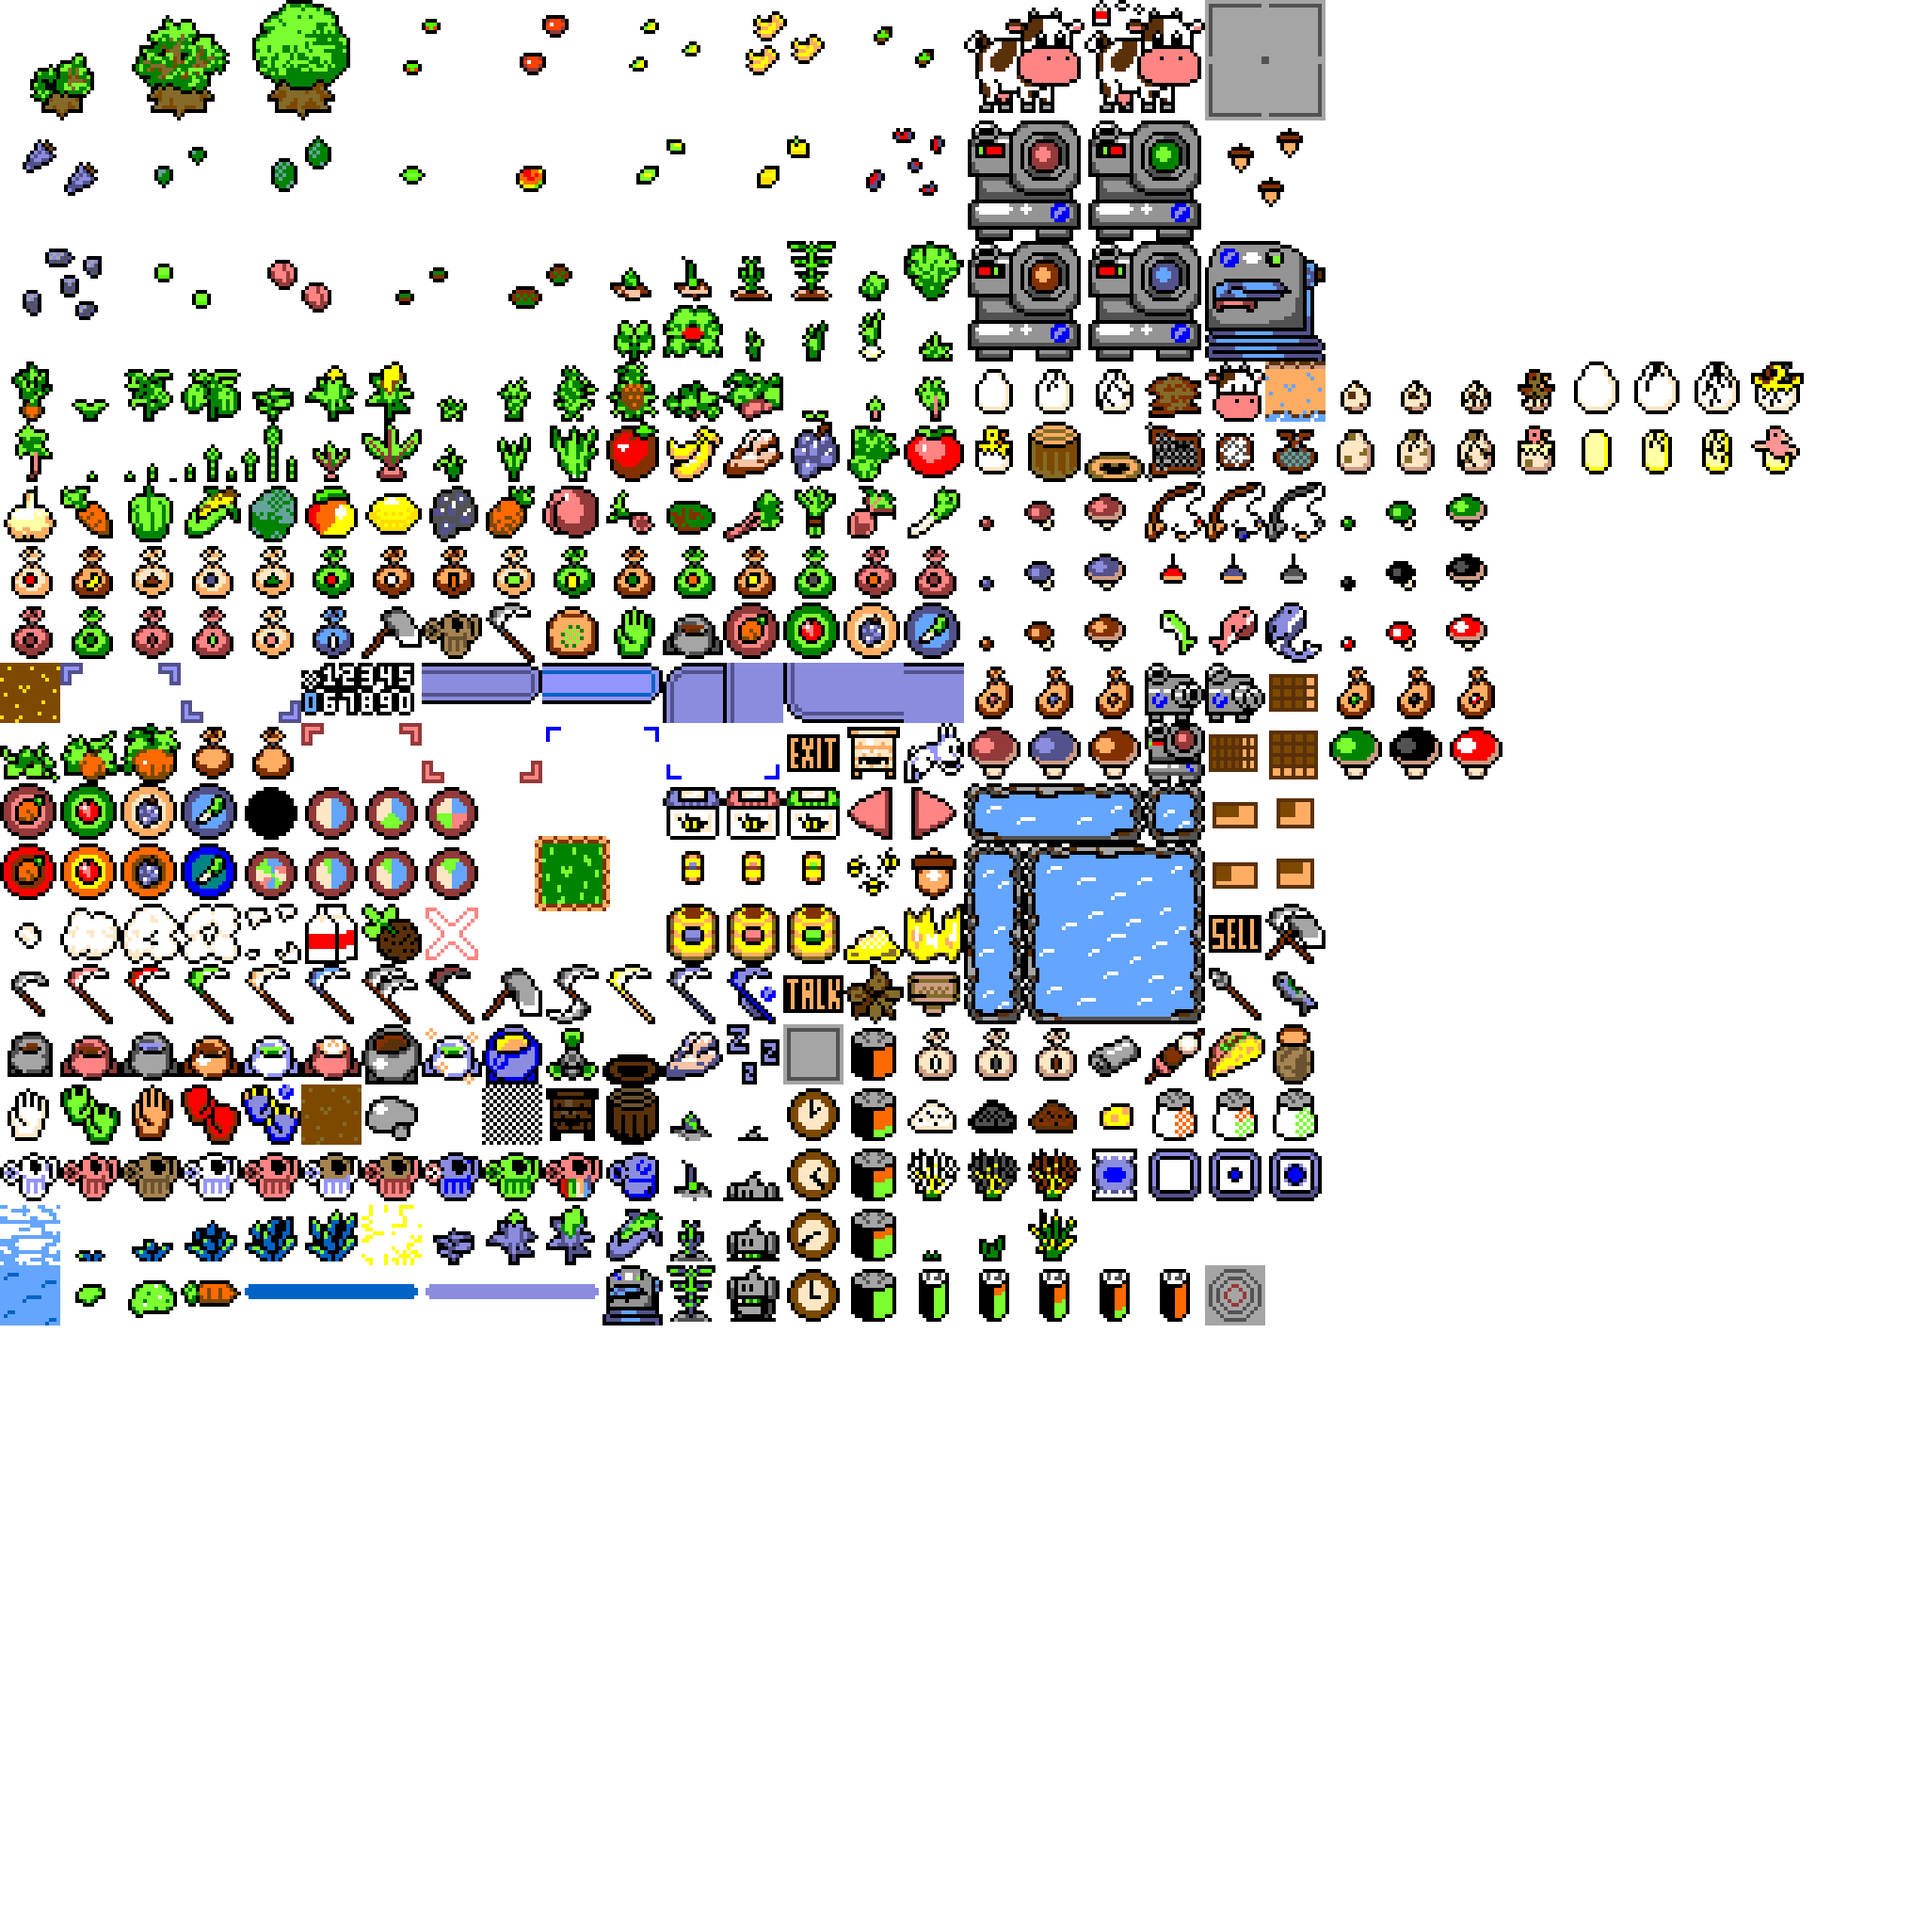
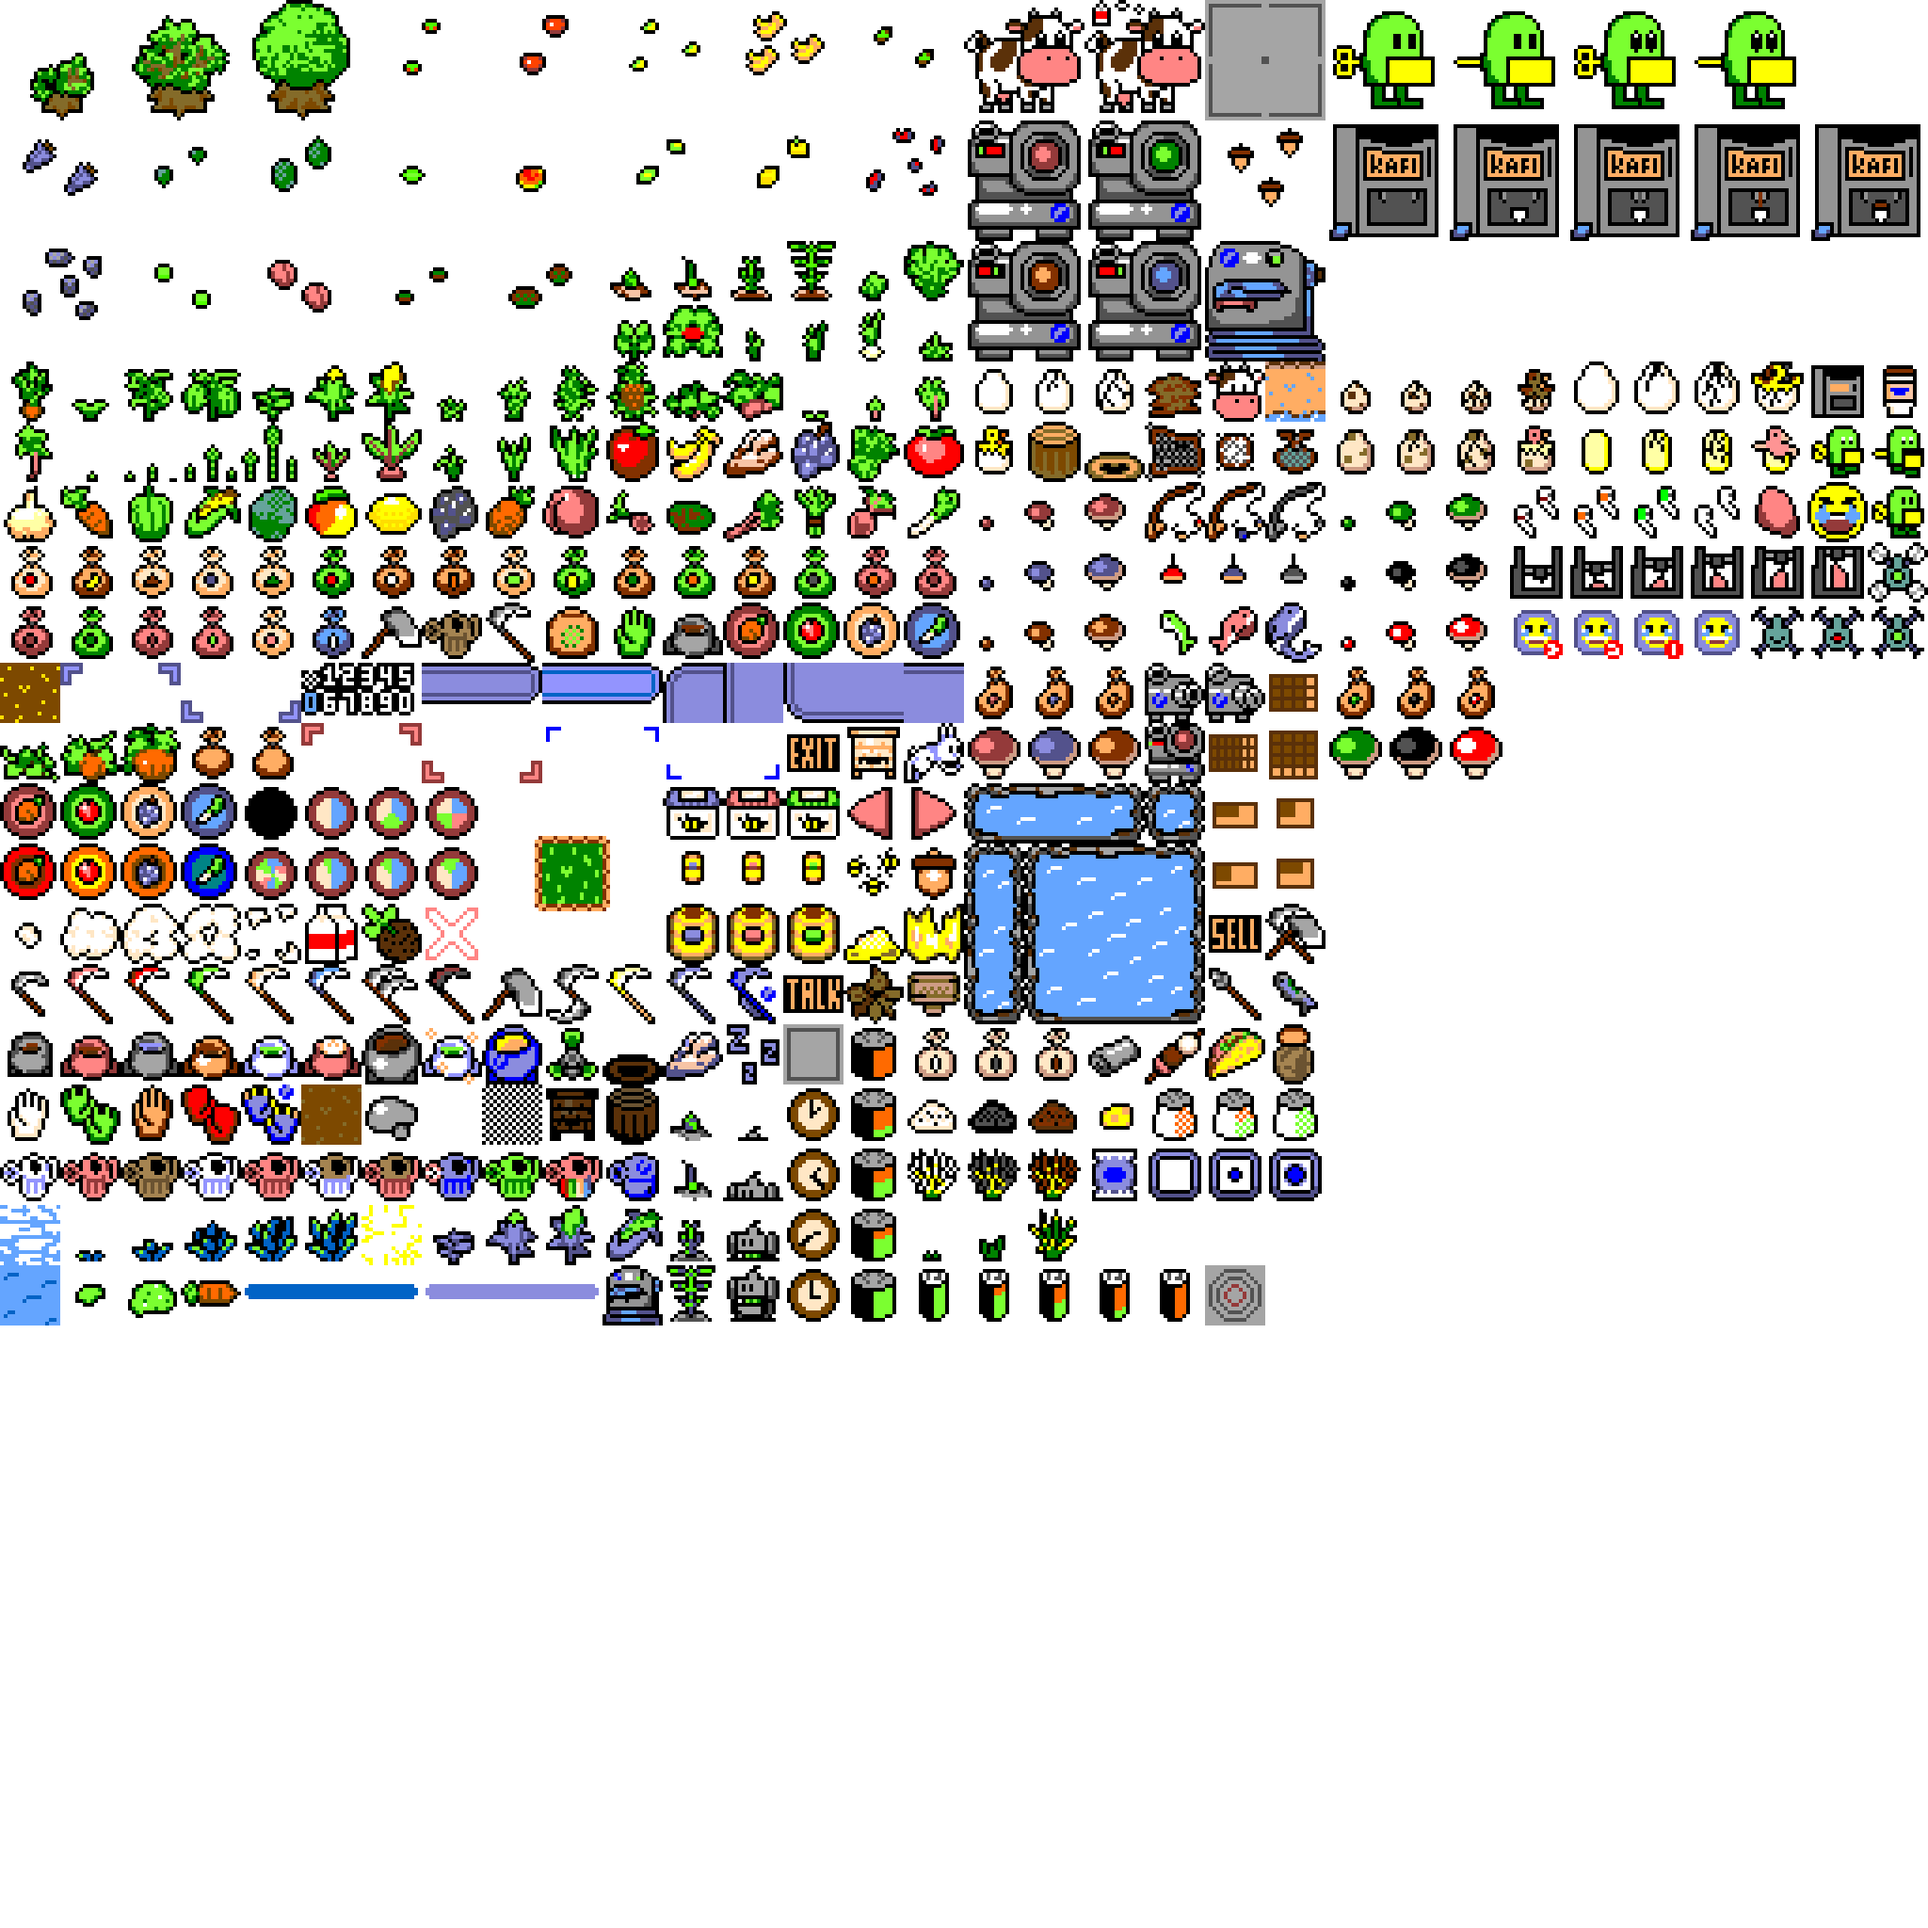
added a buncha new tech items.

Changed region(s): [[0.6875, 0.0, 1.0, 0.125], [0.7812, 0.1875, 1.0, 0.3438]]

diff --git a/js/gamedata/crops.js b/js/gamedata/crops.js
@@ -138,7 +138,6 @@ function GetCrop(name) {
         case "grapes": return new CropDetail(name, "Grapes", 10, "tree", 2, 20, 5, 6, 4, 0, 0, 1);
         case "ginger": return new CropDetail(name, "Ginger", 10, "veg", 1, 5, 4, 4, 0, 0, 0, 1);
         case "specialgrapes": return new CropDetail(name, "Grapes+", 10, "tree", 2, 4, 5, 6, 3, 0, 0, 1);
-        case "battery": return new CropDetail(name, "Battery", 10, "tech", 1, 5, 5, 3, 0, 1, 1, 1, 1);
         case "algae": return new CropDetail(name, "Algae", 10, "rice", 1, 2, 2, 3, 0, 1, 1, 1, 1, { noRot: true });
         case "kelp": return new CropDetail(name, "Kelp", 10, "rice", 1, 5, 5, 3, 0, 1, 1, 1, 1, { noRot: true });
         case "rock": return new CropDetail(name, "Rock", 10, "rock", 1, 5, 1, 0, 0);
@@ -157,6 +156,13 @@ function GetCrop(name) {
         case "turkey": return new CropDetail(name, "Turkey Egg", 10, "egg", 1, 4, 4, 8, 0, 1, 1, 1, 1);
         case "platypus": return new CropDetail(name, "Platypus Egg", 10, "egg", 1, 4, 4, 8, 0, 1, 1, 1, 1);
         /* Tech */
+        case "battery": return new CropDetail(name, "Battery", 10, "tech", 1, 5, 5, 3, 0, 1, 1, 1, 1);
+        case "headphones": return new CropDetail(name, "Wireless Headphones", 10, "tech", 1, 5, 3, 3, 0, 1, 1, 1, 1);
+        case "printer": return new CropDetail(name, "3D Printer", 10, "tech", 1, 5, 6, 3, 4, 1, 1, 1, 1);
+        case "app": return new CropDetail(name, "App", 10, "tech", 1, 3, 4, 3, 0, 1, 1, 1, 1);
+        case "drone": return new CropDetail(name, "Drone", 10, "tech", 1, 5, 3, 3, 0, 1, 1, 1, 1);
+        case "frogbot": return new CropDetail(name, "Fwoggybot", 10, "tech", 2, 5, 4, 3, 0, 1, 1, 1, 1);
+        case "coffee": return new CropDetail(name, "Coffee Machine", 10, "tech", 2, 5, 5, 3, 3, 1, 1, 1, 1);
         case "sicklebattery": return new CropDetail(name, "Sickle2 Battery", 10, "sickle2", 1, 5, 4, 0, 0);
     }
 }

diff --git a/js/gamedata/spritedata.js b/js/gamedata/spritedata.js
@@ -13,6 +13,9 @@ var spriteData = {
             spriteData.names["turkey" + i] = [22 + i, 7];
             spriteData.names["platypus" + i] = [26 + i, 7];
             spriteData.names["sicklebattery" + i] = [15 + i, 21];
+            spriteData.names["app" + i] = [28 - i, 10];
+            spriteData.names["frogbot" + i] = [11 + i, 0, true];
+            spriteData.names["coffee" + i] = [11 + i, 1, true];
             if(i < 2) {
                 spriteData.names["apple" + i] = [3 + i, 0, true];
                 spriteData.names["banana" + i] = [5 + i, 0, true];
@@ -27,6 +30,10 @@ var spriteData = {
                 spriteData.names["beet" + i] = [5 + i, 7];
             }
             if(i < 3) {
+                spriteData.names["printer" + i] = [25 + i, 9];
+                spriteData.names["printer" + (i + 3)] = [28 + i, 9];
+                spriteData.names["drone" + i] = [29 + i, 10];
+                spriteData.names["headphones" + i] = [25 + i, 8];
                 spriteData.names["tree" + i] = [i, 0, true];
                 spriteData.names["garlic" + i] = [12 + i, 5];
                 spriteData.names["bellpepper" + i] = [1 + i, 6];
@@ -97,6 +104,19 @@ var spriteData = {
         }
     },
     names: {
+        "coffee4": [15, 1, true],
+        "appseed": [28, 10],
+        "app": [30, 8],
+        "frogbotseed": [31, 8],
+        "frogbot": [31, 8],
+        "headphones": [28, 8],
+        "headphonesseed": [28, 8],
+        "droneseed": [29, 10],
+        "drone": [31, 9],
+        "printerseed": [25, 9],
+        "printer": [29, 8],
+        "coffeeseed": [30, 6],
+        "coffee": [31, 6],
         "_sprinkler": [9, 17],
         "animalRabbit": [15, 12],
         "goopdrop": [15, 15],

diff --git a/js/combat/combatcropfuncs.js b/js/combat/combatcropfuncs.js
@@ -125,9 +125,14 @@ combat.purgeFlaggedCrop = function(grid, x, y) {
         crop.flagged = false;
     } else {
         grid[x][y] = null;
+        if(crop.size === 2 && crop.type === "tech") {
+            grid[x+1][y] = null;
+            grid[x][y+1] = null;
+            grid[x+1][y+1] = null;
+        }
     }
     combat.animHelper.DrawCrops();
-    return (crop.size == 2);
+    return (crop.size === 2);
 };
 combat.removeCrop = function(pos) {
     var crop = this.grid[pos.x][pos.y];

diff --git a/js/combat/combatselectenemy.js b/js/combat/combatselectenemy.js
@@ -245,9 +245,9 @@ combat.selectTarget = {
             avgDamage = Math.floor(avgDamage / this.targets.length);
         }
         if(hasAnimals) {
-            damagetext = "Nature Strikes! You and your animal friends";
+            damagetext += "Nature Strikes! You and your animal friends";
         } else {
-            damagetext = "You";
+            damagetext += "You";
         }
         damagetext += " attack " + lastTargetName;
         if(this.targets.length > 1) {
